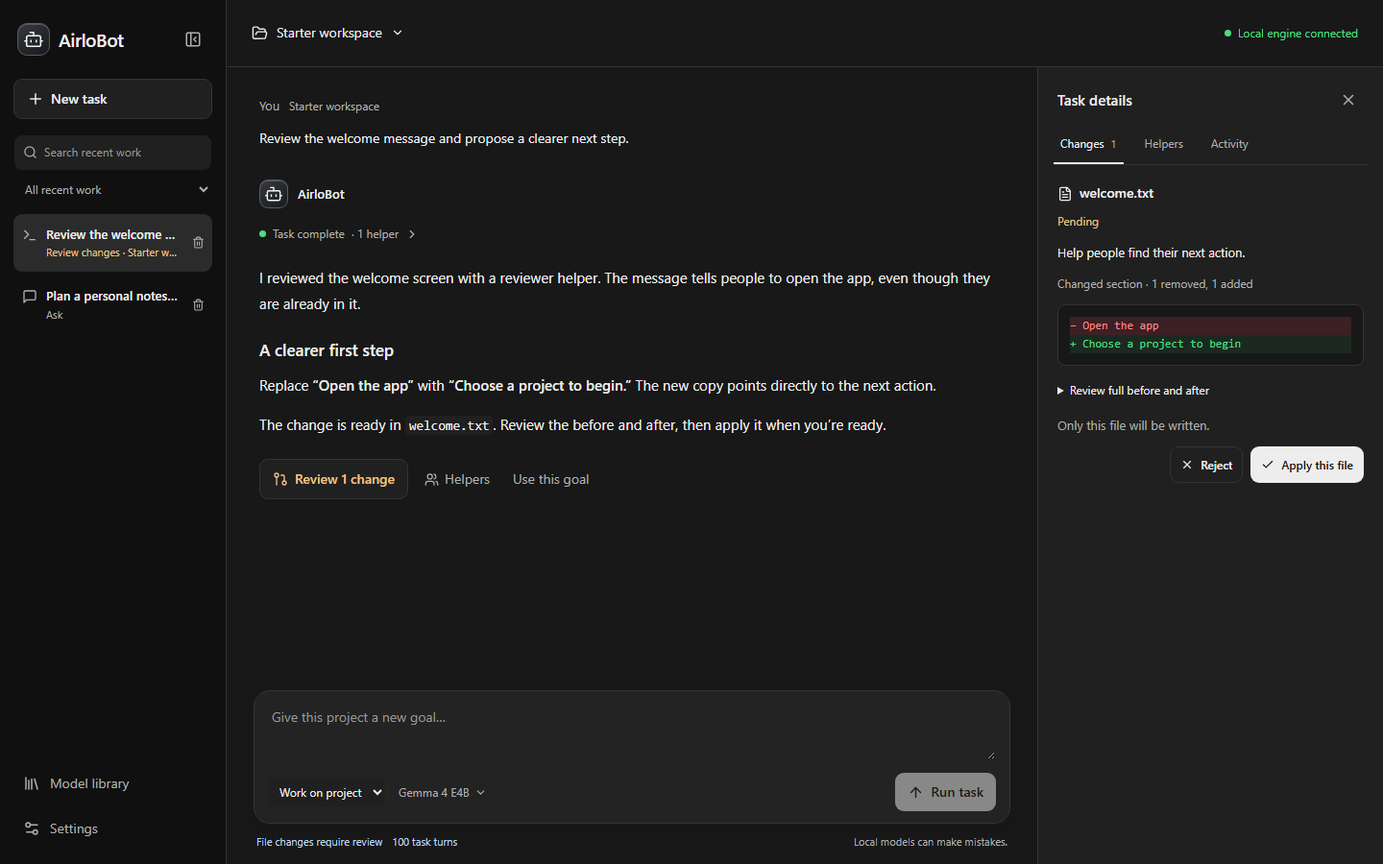
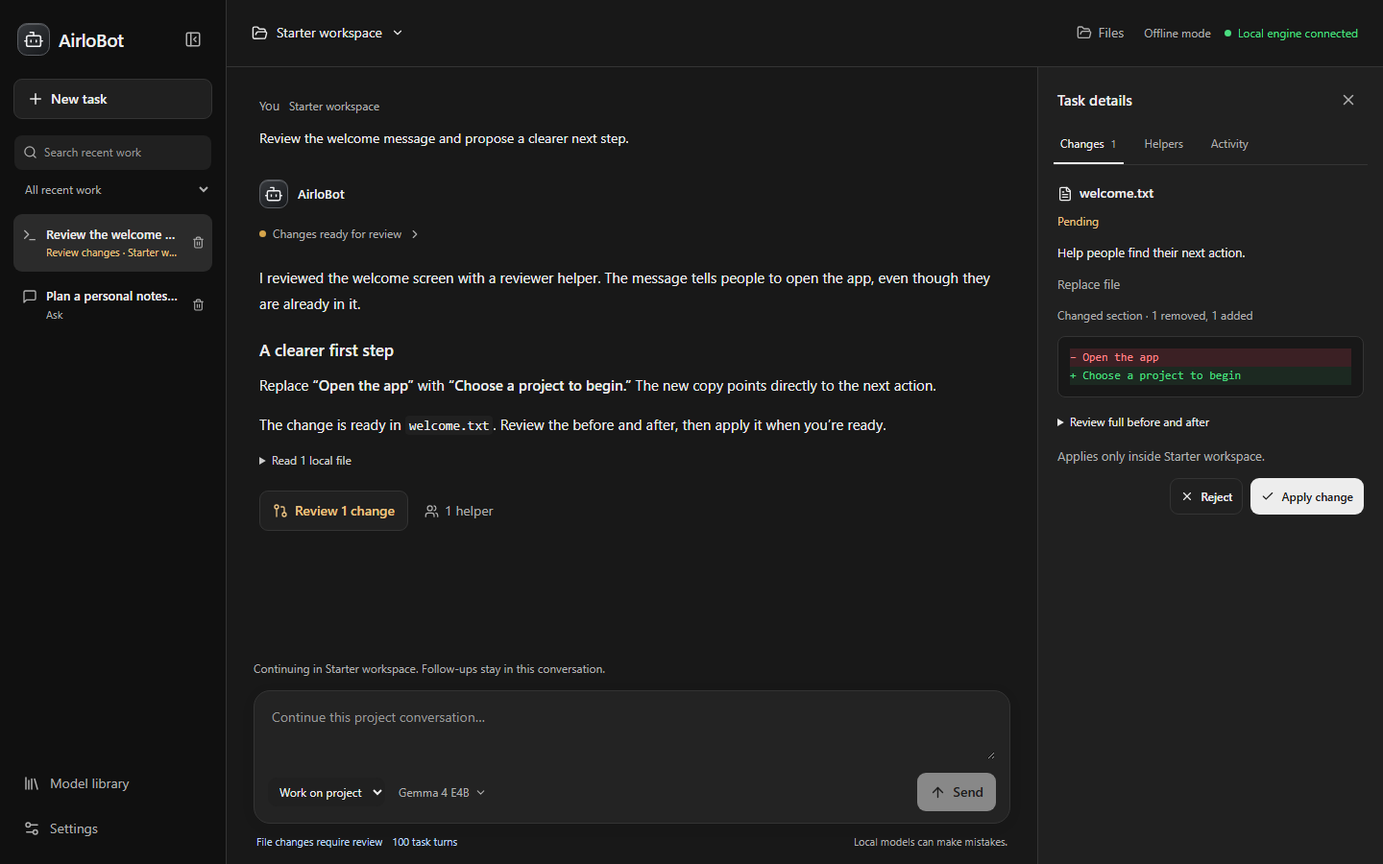
docs: update standalone setup and project workflow screenshots

diff --git a/docs/USER_GUIDE.md b/docs/USER_GUIDE.md
@@ -1,118 +1,110 @@
 # AirloBot user guide
 
-AirloBot 0.5 is a Windows desktop preview for local text models, project investigation, and reviewed file changes. Start with the [README](../README.md#get-started) for installation.
+AirloBot 0.6 is a standalone Windows desktop preview. See the [README](../README.md#get-started) for installation.
 
-## Local engine and model setup
+## Local engine and models
 
-AirloBot requires a working LM Studio installation and the `lms` CLI. On Windows it looks for the CLI in the standard `.lmstudio/bin` directory under your user profile. The server address is fixed to `http://127.0.0.1:1234`; remote inference endpoints and cloud API keys are not supported.
+AirloBot bundles and manages llama.cpp. LM Studio is not required. Source checkouts install the pinned Windows Vulkan/CPU engine explicitly with `npm run runtime:install`. Packages already include it; the app never downloads executable updates itself.
 
-1. Install a text model supported by your LM Studio runtime.
-2. Open **Model library**. Use **Start engine** if the server is offline, or start the server from LM Studio's Developer tab.
-3. Choose **Use model** on an installed model. You can also select one through the model control beneath the composer.
-4. Confirm that **Local engine connected** is green. A running server without the selected model loaded is shown in red.
+1. Open **Model library → Add local GGUF** and select a model.
+2. Choose **Use model**. AirloBot starts its own engine and loads the file directly.
+3. Confirm that **Local engine connected** is green.
 
-The initial default model identifier refers to the Gemma model used during development. You do not need that exact model: select your own installed model in the library. Project tasks require reliable tool calling, and results depend on the model. The development smoke test used `gemma-4-e4b-uncensored-hauhaucs-aggressive`; this is a compatibility result, not a recommendation for every use case.
+GGUF files stay in their original location, including on another drive. During migration, AirloBot discovers compatible files in the standard `.lmstudio/models` folder and its own library once. This is local file discovery only: it never launches LM Studio or calls its API. Use Add local GGUF for files elsewhere or added later.
 
-Loading an unloaded model requests up to 8,192 context tokens, or the model's lower maximum. An already loaded model keeps its runtime configuration. **Unload from memory** releases a model; closing AirloBot leaves the shared local engine running.
+The existing Gemma 4 E4B model is a compatibility target. Other models require supported architectures/templates; agents also need reliable tool calling. Downloading a model does not guarantee compatibility or enough available memory.
 
-Official references: [LM Studio server](https://lmstudio.ai/docs/developer/core/server), [chat-completions compatibility](https://lmstudio.ai/docs/developer/openai-compat/chat-completions).
+**Settings → Privacy and local engine** offers context sizes from 4,096 to 65,536 tokens and Auto GPU / CPU acceleration. Default: 16,384 tokens. Project tools require at least 8,192. Higher values use more memory; the model's maximum also applies. Settings take effect at the next load/send. Unload releases memory; normal app shutdown stops the engine.
 
-## Ask and project work
+Engine reference: [llama.cpp server](https://github.com/ggml-org/llama.cpp/blob/b11960/tools/server/README.md). Build provenance and the archive checksum are pinned in `scripts/runtime-lock.json`.
 
-**Ask** is a conversation without file tools. The folder picker is hidden. **Work on project** uses the folder you select at the top of the workspace. Switching modes preserves each draft and does not submit it.
+## Project conversations
 
-The main agent can list files, read UTF-8 text, search literal text, create researcher/reviewer helpers, and propose small files. Helpers use the same loaded model with separate contexts. They run one at a time, can only read, and cannot create more helpers.
+**Ask** has no file tools and hides the folder picker. **Work on project** binds a conversation to its folder. Follow-ups stay in that conversation. **New task** starts separate work. Choosing another folder starts new work; reopening an old conversation retains its original folder.
 
-Open **Helpers** to inspect findings or the compact activity row to inspect tool activity. If a proposal is available, **Review changes** opens a side panel or, on smaller windows, a drawer. The changed section is a preview; expand **Review full before and after** for the complete file. A shortened preview is labeled.
+**Files** opens a local directory browser. Open subfolders, show more entries, preview text, and choose **Use this file in my request**. Pages contain up to 100 entries; there is no former four-level discovery cutoff. Excluded entries are counted. Unsupported documents produce an error instead of invented content.
 
-**Apply this file** writes only the approved file. AirloBot rejects stale proposals if the file has changed since it was read. **Reject** leaves the file untouched. Historical proposals require selecting the original project folder again.
+The progress row describes the current action. **Read local files** lists actual reads. **Helpers** and **Activity** show tool outcomes. A response without file evidence or proposals is labeled as needing direction, not completed file work.
 
-## Work budgets and longer replies
+Helpers use the same local model, separate contexts, and read-only tools. Up to two run sequentially per submitted turn. Their suggestions cannot authorize writes or override user instructions. Models can still make mistakes; inspect the actual proposals.
 
-| Control | Default | Options and behavior |
+Follow-ups include recent goals, results, change states, and file references. Up to six recent turns are shortened to fit the context budget; older history remains saved. Files must be read again before editing because prior evidence can become stale.
+
+## Reviewed folders and document edits
+
+Try: “Read README.md, create a docs folder, and write a summary in docs/overview.md.”
+
+Open **Review changes**, inspect paths and before/after text, then choose **Apply change** or **Reject**. Apply folder proposals before dependent files. Approvals target the conversation's original folder even if the picker has since changed. Model tools never apply writes themselves.
+
+Targeted edits replace one uniquely matching passage after it has been read. Unrelated text stays unchanged, and CRLF line endings are preserved. Entire replacements require reading the full current file; reading can span multiple pages. Proposals are rejected if the source changed after reading.
+
+**Undo this change** restores the saved previous content, removes an unchanged newly created file, or removes only empty directories that operation created. Undo refuses to overwrite newer edits and never recursively deletes folders. Undo child changes before their folder. Deleting a conversation also removes its saved undo information; it never deletes project files.
+
+Editing supports UTF-8 text, Markdown, and source/configuration files. Word, PDF, spreadsheets, images, and other binary documents require their native editor or a text export. AirloBot rejects attempts to create these formats as plain text.
+
+## Limits and recovery
+
+| Control | Default / limit | Behavior |
 | --- | --- | --- |
-| Chat response length | Unlimited (model context) | Remove the app token cap or choose a fixed cap up to 32,768 tokens. |
-| Task work budget | 100 model turns | Shared by the main agent and helpers. Tool actions do not consume additional model turns. Unlimited is available. |
-| Task time limit | 60 minutes | Independent of the turn budget. No time limit is available. |
-| Individual task request | 120 seconds | A stalled request times out. |
-| Task reply capacity | 4,096 tokens per request | Model context and runtime limits still apply. |
+| Chat response length | Unlimited (model context) | Removes the app output cap; context and memory still apply. |
+| Project budget | 100 model turns / 60 minutes | Shared by main agent and helpers per submitted turn. Unlimited turns and No time limit are available. |
+| Individual task request | 300 seconds / 4,096 output tokens | A stalled request times out. |
+| Text file size | 1 MiB | Each read returns up to 200 lines / 6,000 raw characters. |
+| New/replacement content | 24,000 characters | Use targeted edits for larger existing files. |
+| Proposals | 20 per submitted turn | Every change requires review. |
 
-Task settings apply to new tasks; a running task keeps its starting budget. Stop cancels parent and helper work. Six consecutive identical tool exchanges with unchanged results stop a stuck agent, including in Unlimited mode. The most recent 500 activity events are retained, with an omitted-event count; results and proposals remain saved.
+Stop cancels parent and helper work. Six identical tool exchanges with unchanged results stop a loop. Empty replies receive at most two recovery requests. The latest 500 activity events per turn are kept; results and proposals remain saved.
 
-For chat, **Continue response** appears when the runtime reports a token/context cutoff. It sends a follow-up only when clicked. Older complete turns may be omitted to fit the 24,000-character request budget, including assistant instructions; the reply reports omissions without deleting saved history. This is an approximate character budget, not a tokenizer. Reasoning may consume output tokens even when the request asks to disable it.
+**Continue saved work** submits a follow-up after a stop, failure, limit, or restart using saved findings. It does not restore an exact in-flight model execution or replay writes. Interrupted writes are marked uncertain for inspection.
 
-An unfinished task is marked interrupted after restart. **Use this goal** starts a fresh attempt; it does not resume an old execution or replay writes. A write interrupted at an uncertain point is marked for manual inspection.
+Chat's **Continue response** appears when the engine reports a cutoff. Earlier turns may be omitted from a request's approximate context budget without deleting history. Unlimited output does not enlarge model context.
 
-## File-tool scope
+## Model downloads
 
-The current tools suit investigation and small changes:
+Offline mode is on by default for new installations. Disable it explicitly to use **Find models**. Search by name or `publisher/repository`, choose a public, ungated, single-file GGUF, and follow progress in **Downloads**. Downloads pin a revision and verify size and SHA-256. Pause/resume retains partial bytes; verified files register directly with AirloBot.
 
-- At most two helpers and five file proposals per task.
-- UTF-8 files up to 64 KiB for reading; each read returns at most 120 lines or 6,000 characters.
-- Replacing an existing file requires a complete current read; existing replacement files are limited to 6,000 characters.
-- Proposed content is limited to 12,000 characters. New files require an existing parent directory.
-- Discovery covers up to 200 entries and four directory levels. Use a narrower directory when results are truncated.
-- Generated folders, sensitive filename patterns, model weights, symlinks, and junctions are excluded.
-
-There is no terminal, command execution, test runner, autonomous write, browser tool, scheduled job, or nested helper delegation. The project boundary is an application-level restriction, not an operating-system sandbox against other processes modifying the filesystem.
-
-## Model library
-
-Open **Model library → Find models** and search by name or enter `publisher/repository`. Choose a suitable single-file GGUF and select **Download**. Downloads use a pinned revision and check size and SHA-256 before import. Follow progress in **Downloads**, where pause/resume retains partial data.
-
-After import, open **Installed**, refresh if needed, and choose **Use model**. Downloading a GGUF does not guarantee that your runtime supports its architecture or that it fits available memory. Repository licenses are shown; the model's license governs its use.
-
-This preview supports public, ungated, single-file GGUF downloads. Split files are disabled. Vision projectors can be saved separately, but this release is text-only and does not automatically register multimodal models.
-
-**Add local GGUF** and verified downloads use LM Studio hard-link imports. The source and runtime library must be on the same drive. If import fails, the verified file remains available and **Add to runtime** retries the import without silently copying multiple gigabytes.
+Split GGUFs and vision projectors are disabled in the interface. This release supports text only. Downloaded models retain their own licenses.
 
 ## Privacy and storage
 
-Using **Start AirloBot.cmd** stores local state under the checkout's `data` directory:
+The launcher uses the checkout's `data` directory. Direct executable/npm launches use Electron's standard AirloBot user-data directory; use the launcher consistently to retain the same history.
 
 | Location | Contents |
 | --- | --- |
-| `data/state.json` | Chats, drafts, tasks, helper activity, source excerpts, file proposals, and preferences. |
-| `data/models/` | Downloaded model files and partial downloads. |
-| `data/electron-profile/` | Electron/Chromium preferences and cache. |
+| `data/state.json` | Conversations, drafts, task turns, helper activity, source excerpts, before/after proposals, local model paths, settings. |
+| `data/models/` | Downloads and partial model files. |
+| `data/backups/` | Pre-migration backup when upgrading older state. |
+| `data/electron-profile/` | Electron preferences and cache. |
 
-These files are readable local data, not encrypted storage. Back up the data folder before replacing an application build. Running `npm start` or the executable directly uses Electron's standard AirloBot user-data location instead; use the launcher consistently to retain the same history.
+Storage is readable local data, not encryption. Proposal contents provide undo records. Back up this folder before replacing builds. Deleting recent work does not erase separate backups or securely wipe disk sectors.
 
-Inference requests go only to the fixed loopback server, with redirects rejected. Hugging Face receives model searches and downloads, never conversation payloads from AirloBot. Download redirects are restricted to HTTPS Hugging Face/CDN hosts. The renderer blocks remote connections, navigation, and embedded remote images. AirloBot has no telemetry or cloud model fallback.
+Only AirloBot's owned engine receives prompts and project content. It binds to `127.0.0.1` on a dynamic port and requires a random session key, kept out of renderer state and saved conversations. Redirects are rejected. Remote binding, native engine agent tools, its web UI, and request logging are disabled. Inherited environment variables cannot enable remote hosts or command tools.
 
-**Offline mode** blocks AirloBot's Hugging Face operations. It is not an OS firewall and does not change LM Studio's separate networking or updater behavior.
+The renderer blocks remote requests, navigation, and embedded remote images. There is no telemetry, account login, or cloud inference fallback. Offline mode blocks Hugging Face operations while local inference remains usable. When enabled, Hugging Face receives search terms and download requests, never conversation payloads. This setting is not an OS firewall for other applications.
 
-Runtime data, models, logs, backups, and private captures are ignored by Git and excluded from Windows packages. Repository publishing checks look for known sensitive paths, personal home paths, tokens, and private keys; they are not comprehensive personal-data detection. The README images are the only deliberate product captures: they use fixed synthetic fixtures, not the user's data. See [media provenance](media/README.md).
+Project tools stay within their folder and exclude sensitive paths, generated folders, symlinks, and junctions. This application boundary is not a complete OS sandbox against other processes changing files.
 
-## History, drafts, and appearance
-
-Each recent task/chat has a trash control and confirmation. Deleting a task removes its saved record, draft, activity, and proposals. Project files—including changes already applied—stay intact. Running work cannot be deleted until stopped. This does not erase separate backups or securely wipe disk sectors.
-
-Drafts are saved per work item. **Ctrl+B** toggles the sidebar, **Ctrl+I** focuses the composer, **Enter** submits, and **Shift+Enter** adds a line. A failed first send keeps its draft.
-
-Choose **Light**, **Dark**, or **Liquid Glass** in **Settings → Appearance**. Glass diffusion, reduced transparency, and reduced motion save automatically. System accessibility preferences are respected. Liquid Glass is an independent CSS interpretation, not Apple's native macOS material.
+Runtime data, model weights, native binaries, logs, backups, and private captures are ignored by Git. Packages exclude user data and research artifacts. Publishing checks detect recognized private-data paths and credentials; they are not comprehensive personal-data detection. Product screenshots use synthetic fixtures only. See [media provenance](media/README.md).
 
 ## Troubleshooting
 
-| Symptom | What to check |
+| Symptom | Action |
 | --- | --- |
-| Engine offline | Start LM Studio's local server on port 1234. Confirm the CLI is installed in its standard location. |
-| No model connected | Open Installed and choose Use model; a running server alone is not enough. |
-| Tool calls fail or are malformed | Use a compatible tool-capable local model, or make the goal more specific. |
-| Task reaches a work/time limit | Adjust Project tasks in Settings, then use the goal for a fresh run. |
-| Reply hits a context limit | Shorten the prompt/instructions or start a fresh conversation. Unlimited does not enlarge the model's context. |
-| A proposed change will not apply | Re-select its original project and check whether the file changed. Generate a fresh proposal rather than overwriting newer edits. |
-| Download verified but import failed | Confirm both locations are on the same drive, then choose Add to runtime. |
-| Model hash mismatch | The unverified file is not imported. Remove only the affected `.part` file from the model library, then Resume. |
-| Electron binary missing after installing dependencies | Run `npx --no-install install-electron`, then rebuild. See [Electron installation](https://www.electronjs.org/docs/latest/tutorial/installation). |
-| Windows blocks the executable | Use your normal organization/admin approval process. Do not disable Windows protection to run it. |
+| Engine missing | Run `npm run runtime:install` in source checkouts; packaged apps need their complete `resources/llama` folder. |
+| Model cannot load | Confirm the GGUF exists. Try CPU or smaller context. Check architecture support. |
+| Weak agent results | Use specific paths/instructions, inspect tool evidence, or select another tool-capable model. |
+| Task reaches a limit | Increase project budgets and Continue saved work. |
+| File not visible | Browse deeper or show another page; excluded paths stay restricted. |
+| Proposal is stale | Ask for a fresh read and edit; newer work will not be overwritten silently. |
+| New file has no parent | Apply the folder proposal first. |
+| Undo refuses | Resolve newer edits or undo child files first. |
+| Download did not register | Choose Add to library; check metadata and architecture. |
+| Windows blocks a binary | Use your normal Windows/admin approval process; do not disable Windows protection. |
 
-## Build a Windows package
+## Packaging and preferences
 
-```powershell
-npm run package
-```
+Run `npm run runtime:install`, then `npm run package`. Output: `release/standalone/AirloBot-win32-x64`, including engine licenses. Keep the entire folder together. Builds are unsigned, with no automatic updater. The existing launcher prefers `release/AirloBot-win32-x64`; deploy a reviewed build there or use source mode in a checkout without that installation.
 
-The output is `release/AirloBot-win32-x64`. Keep that entire folder together. Packaging does not overwrite an existing release; close it and archive the old build first. Retain the separate `data` folder and use the launcher for the same history. Builds are unsigned and do not include a signed installer or auto-update mechanism.
+Light, Dark, and Liquid Glass are under **Settings → Appearance** with motion/transparency controls. Glass is an independent CSS interpretation. **Ctrl+B** toggles the sidebar, **Ctrl+I** focuses the composer, **Enter** submits, and **Shift+Enter** inserts a line. Drafts are saved per conversation.
 
-For development checks and contribution workflow, see [Contributing](../CONTRIBUTING.txt).
+For contribution checks and protected-branch practices, see [Contributing](../CONTRIBUTING.txt).

diff --git a/README.md b/README.md
@@ -7,7 +7,7 @@
 <p align="center"><strong>An agent workspace powered by your local models.</strong></p>
 
 <p align="center">
-  Windows desktop · Local inference · Version 0.5 preview
+  Windows desktop · Local inference · Version 0.6 preview
 </p>
 
 <p align="center">
@@ -29,9 +29,9 @@ AirloBot brings local chat, project tools, and helper agents into one desktop wo
 
 ## What you can do
 
-- **Work on a project.** Explore folders, read files, search text, and propose focused changes.
+- **Work on a project.** Keep follow-ups in one folder-bound conversation. Browse files, search text, and inspect what the agent actually read.
 - **Delegate locally.** The main agent can create researcher or reviewer helpers using the same installed model, with separate contexts and read-only tools.
-- **Stay in control.** Inspect activity and file changes, apply or reject each proposal, and stop work at any time.
+- **Make reviewed changes.** Create folders and text documents, edit a precise passage, and apply, reject, or undo changes with protection against overwriting newer work.
 - **Build a model library.** Add a local GGUF or browse public Hugging Face repositories, with download progress, pause/resume, and SHA-256 verification.
 - **Keep your place.** Saved drafts, searchable recent work, and confirmed task/chat deletion keep the workspace manageable.
 - **Choose your finish.** Light, Dark, and macOS-inspired Liquid Glass include motion and transparency controls.
@@ -40,9 +40,11 @@ AirloBot brings local chat, project tools, and helper agents into one desktop wo
 
 **This is an early Windows preview built from source. A signed installer and automatic updater are not available yet.**
 
-### 1. Prepare your local engine
+### 1. Bring a local model
 
-Install [LM Studio](https://lmstudio.ai/) and a compatible text model that fits your hardware. For project agents, choose a model that supports tool calling. AirloBot uses LM Studio's local server at `http://127.0.0.1:1234` and its `lms` CLI. See the [local-server setup guide](https://lmstudio.ai/docs/developer/core/server).
+AirloBot manages its own bundled [llama.cpp engine](https://github.com/ggml-org/llama.cpp). **LM Studio is not required.** Use a compatible single-file GGUF model that fits your hardware. Project agents need a model with reliable tool calling.
+
+Existing GGUF files can be added without copying or moving them. During migration, AirloBot also discovers models in the standard local LM Studio model folder; it never launches or calls LM Studio.
 
 ### 2. Build and launch
 
@@ -55,9 +57,12 @@ git clone https://github.com/BovineDawn/AirloBot.git
 cd AirloBot
 npm ci
 npx --no-install install-electron
+npm run runtime:install
 npm run build
 & ".\Start AirloBot.cmd"
 ```
+
+The explicit runtime installation step downloads a pinned, SHA-256-verified Windows engine. Packaged builds already include it and need no runtime download.
 
 The launcher stores your history, drafts, and preferences in this checkout's local `data` folder. After setup, double-click **Start AirloBot.cmd** to reopen the app.
 
@@ -68,7 +73,7 @@ Open **Model library → Installed**, then select **Use model**. The local-engin
 | Mode | Use it for |
 | --- | --- |
 | **Ask** | Questions, explanations, and planning. No project folder or file tools. |
-| **Work on project** | Goals that need project files. Choose a folder, enter a goal, then review the result. |
+| **Work on project** | Goals that need project files. Choose a folder, enter a goal, then review the result. Send follow-ups in the same conversation; New task starts a separate one. |
 
 Try a first task:
 
@@ -80,13 +85,13 @@ Need more room? **Settings → Project tasks** offers **Unlimited turns** and **
 
 ### Review the change before it reaches your files
 
-Task results stay in the main workspace. Open **Review changes** to see the changed lines, expand the full before/after text, and choose **Apply this file** or **Reject**. Nothing is applied by a model tool itself.
+Task results stay in the main workspace. Open **Review changes** to see the changed lines, expand the full before/after text, and choose **Apply change** or **Reject**. Nothing is applied by a model tool itself. Applied changes offer Undo; newer edits are preserved if a conflict is detected.
 
 ![Dark theme with a proposed file change, readable diff, and explicit Apply and Reject controls](docs/media/review-dark.png)
 
 ### Bring your own local models
 
-Use models already installed in LM Studio, import a GGUF, or find a public model on Hugging Face. Downloads are verified before import. The library currently supports public, ungated, single-file GGUF models.
+Add an existing GGUF or find a public model on Hugging Face. AirloBot loads files directly and verifies downloads before adding them to the library. The library currently supports public, ungated, single-file GGUF models.
 
 ![Light theme showing the local model library and model selection controls](docs/media/library-light.png)
 
@@ -101,17 +106,17 @@ Choose Light, Dark, or Liquid Glass in **Settings → Appearance**. Adjust glass
 
 ## Privacy and control
 
-- **Inference stays on this computer.** AirloBot sends prompts and project context only to the fixed local model endpoint. It has no cloud inference fallback, telemetry, or account login.
-- **Network access is explicit.** Hugging Face receives library searches and download requests. **Offline mode** blocks those operations while installed models remain usable.
+- **Inference stays on this computer.** AirloBot sends prompts and project context only to its owned, authenticated loopback engine. It has no cloud inference fallback, telemetry, or account login.
+- **Network access is explicit.** Hugging Face receives library searches and download requests. **Offline mode**, enabled by default for new installs, blocks those operations while installed models remain usable.
 - **File access is scoped.** Project tools stay within the selected folder, block sensitive path patterns and links, and require review before writing changes.
 - **Storage is local, not encrypted.** Conversations, drafts, task activity, and proposals are saved as readable local data. Anyone with access to those files can read them.
 - **Private data stays out of the repository.** Runtime data and model weights are ignored by Git and excluded from app packages. Publishing checks help catch recognized private-data paths and credentials.
 
-LM Studio is a separate application; its own networking and updates are outside AirloBot's controls. Read the [storage and privacy details](docs/USER_GUIDE.md#privacy-and-storage) before using sensitive projects.
+The bundled engine has remote access, built-in agent tools, request logging, and its web UI disabled. AirloBot stops its engine when the app closes normally. See [storage and privacy details](docs/USER_GUIDE.md#privacy-and-storage).
 
 ## Current scope
 
-AirloBot 0.5 supports text chat and small, reviewed file changes. Helpers run sequentially, with up to two helpers per task. New tasks default to **100 shared model turns and 60 minutes**, both configurable. Terminal execution, running project tests, large-file patch editing, and autonomous writes are not available yet.
+AirloBot 0.6 supports local text chat, persistent project conversations, folder creation, and reviewed UTF-8 text/Markdown/source edits up to 1 MiB. Helpers run sequentially, with up to two helpers per turn. New turns default to **100 shared model turns and 60 minutes**, both configurable. Word/PDF editing, terminal commands, project test execution, and autonomous writes are not available.
 
 The app is tested on Windows. CI checks the service and production build on Windows and Linux; this does not imply a supported Linux desktop release. See the [user guide](docs/USER_GUIDE.md) for model requirements, exact limits, and troubleshooting.
 

diff --git a/docs/media/README.md b/docs/media/README.md
@@ -1,10 +1,10 @@
 # Product image provenance
 
-These four PNGs show the unmodified AirloBot 0.5 production renderer with fixed synthetic content. Conversation text, task results, project paths, model inventory, and connection status are demo fixtures. They do not claim a live model interaction or expose a user's saved state.
+These four PNGs show the unmodified AirloBot 0.6 production renderer with fixed synthetic content. Conversation text, task results, project paths, model inventory, and connection status are demo fixtures. They do not claim a live model interaction or expose a user's saved state.
 
 | Image | View |
 | --- | --- |
-| `workspace-glass.png` | Completed sample task in Liquid Glass. |
+| `workspace-glass.png` | Sample project conversation awaiting review in Liquid Glass. |
 | `review-dark.png` | Sample file-change review in Dark. |
 | `library-light.png` | Example local-model inventory in Light. |
 | `appearance-glass.png` | Appearance options and accessibility controls. |
@@ -16,6 +16,6 @@ npm run build
 npx --no-install electron scripts/capture-readme.cjs
 ```
 
-The capture process uses its own ignored test profile, reads only the built app assets, and blocks every external network request. It does not read `data`, connect to LM Studio, or perform file changes. No screenshot is taken from the user's running desktop app.
+The capture process uses its own ignored test profile, reads only the built app assets, and blocks every external network request. It does not read `data`, start an inference engine, or perform project file changes. No screenshot is taken from the user's running desktop app.
 
 Before publishing regenerated images, inspect all four for layout and unintended content. Do not replace these images with real chats, local file paths, credentials, or personal project screenshots. Other private captures remain ignored by Git.
